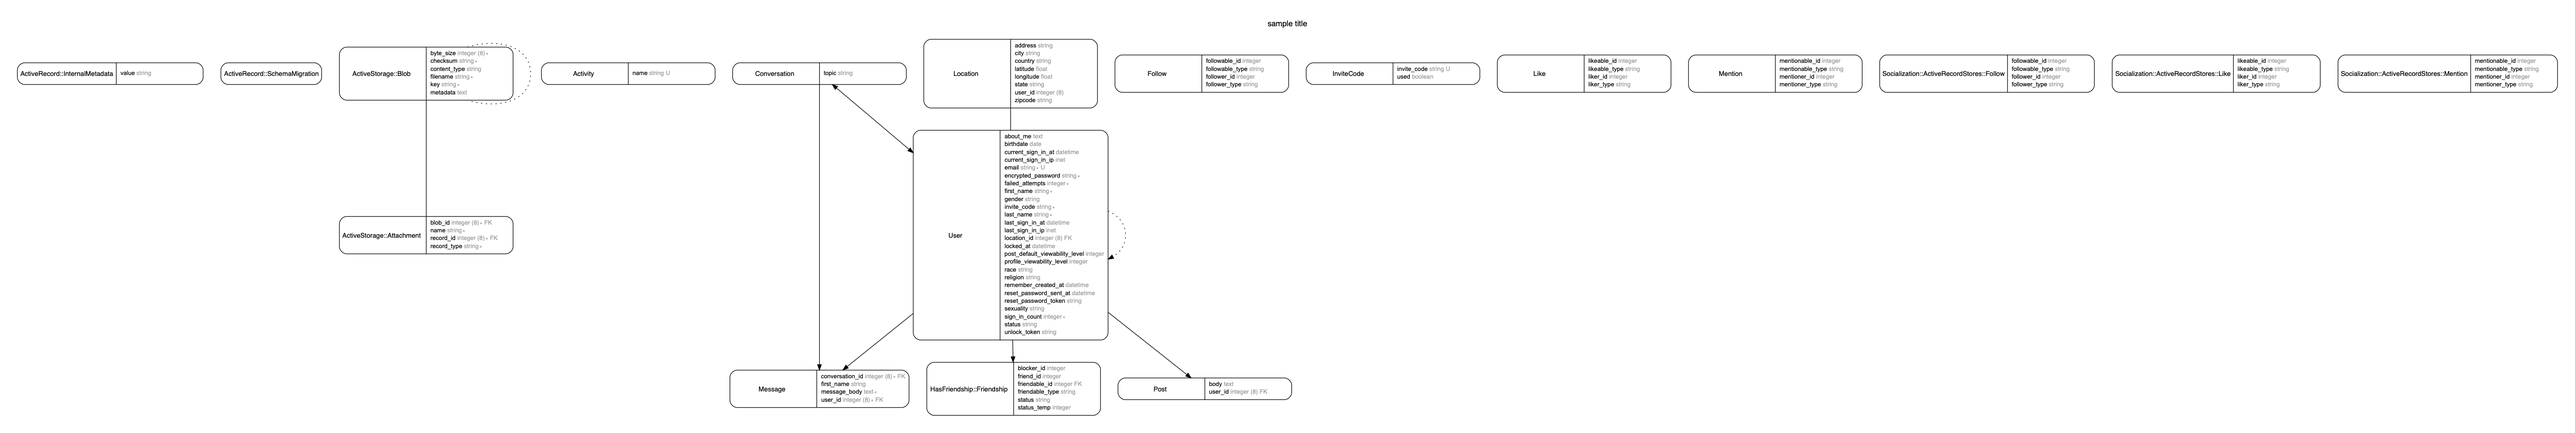
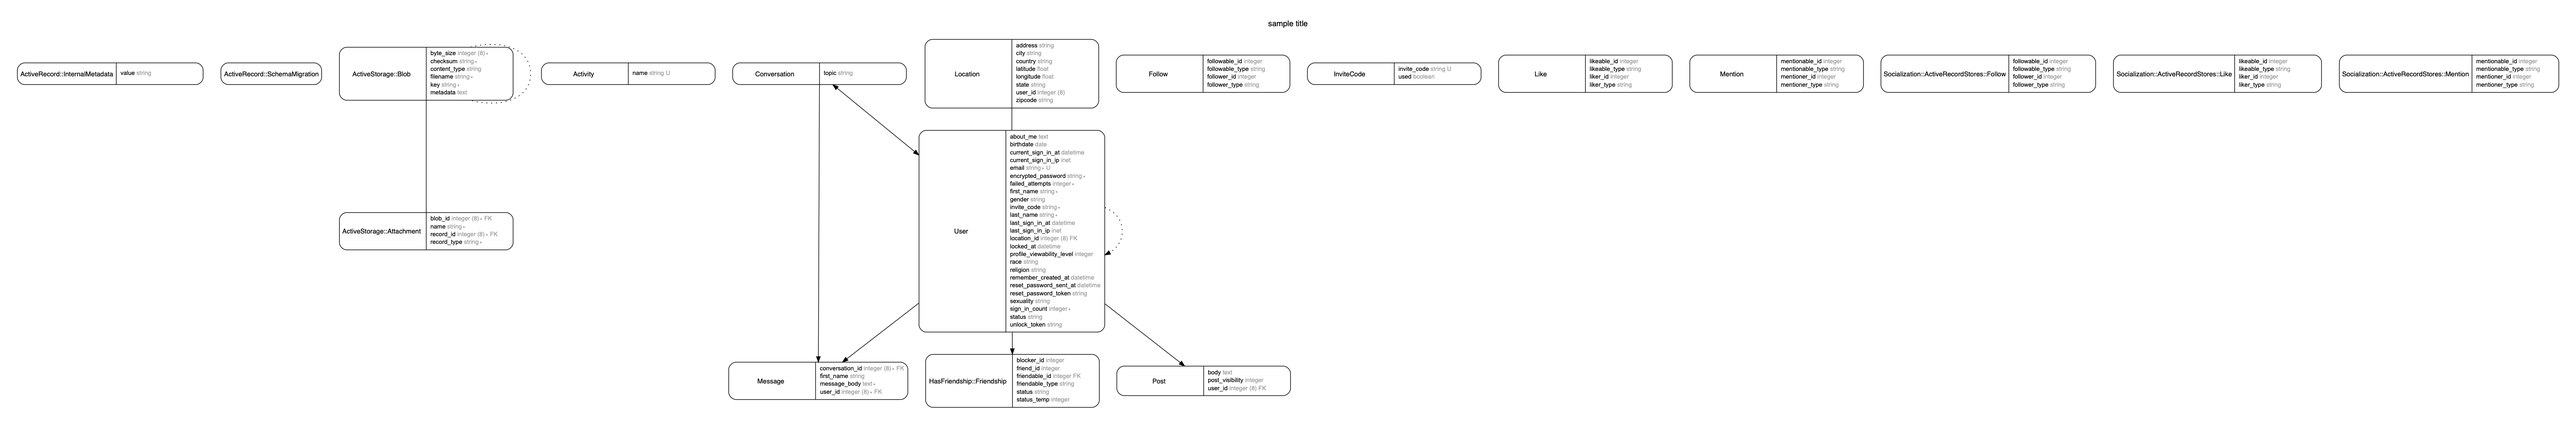
added infinite scrolling to user profiles.

diff --git a/app/javascript/components/Profile.js b/app/javascript/components/Profile.js
@@ -1,0 +1,110 @@
+import React from "react"
+import PropTypes from "prop-types"
+import axios from "axios"
+import Post from './Post'
+
+class Profile extends React.Component {
+  _isMounted = false;
+  page = 1;
+
+  constructor(props)
+  {
+    super(props)
+
+    this.loadData = this.loadData.bind(this);
+    this.trackScrolling = this.trackScrolling.bind(this);
+
+    this.state =
+    {
+      posts: []
+    };
+  }
+
+  componentDidMount()
+  {
+    this._isMounted = true;
+    document.addEventListener('scroll', this.trackScrolling);
+    this.loadData();
+  }
+
+  componentWillUnmount()
+  {
+    this._isMounted = false;
+    document.removeEventListener('scroll', this.trackScrolling);
+  }
+
+  trackScrolling()
+  {
+    if ((window.innerHeight + window.scrollY) >= document.body.offsetHeight) {
+      this.loadNextPage();
+    }
+  }
+
+  loadNextPage()
+  {
+    this.page++;
+
+    axios({
+      method: 'GET', 
+      url: '/posts/get_recent_posts',
+      params: { user_id: this.props.user_id, page: this.page },
+      headers: {
+        'X-CSRF-Token': document.querySelector("meta[name=csrf-token]").content
+      }
+    })
+    .then((response) => {
+      if (this._isMounted) {
+        this.setState({ posts: [...this.state.posts, ...response.data.posts ] });
+      }
+    });
+
+  }
+
+  loadData()
+  {
+    axios({
+      method: 'GET', 
+      url: '/posts/get_recent_posts',
+      params: { user_id: this.props.user_id, page: this.page },
+      headers: {
+        'X-CSRF-Token': document.querySelector("meta[name=csrf-token]").content
+      }
+    })
+    .then((response) => {
+      if (this._isMounted) {
+        this.setState({
+          posts: response.data.posts
+        });
+      }
+    });
+  }
+  
+  render ()
+  {
+    if (this.state.posts != null)
+    {
+      var posts = this.state.posts.map((post, index) => {
+        var date = new Date(post.created_at);
+        var date = "Posted: " + Number(date.getMonth() + 1) + "/" + date.getDate() + "/" + date.getFullYear()
+
+        return (
+          <li key={index} className="list-group-item">
+            <Post created_at={date} post_body={post.body} />
+          </li>
+        );
+      });
+    }
+
+    return (
+      <React.Fragment>
+
+      <ul id="profile_posts_list" className="list-group list-group-flush">
+        { posts }        
+      </ul>
+
+      </React.Fragment>
+    );
+  }
+}
+
+export default Profile

diff --git a/app/javascript/components/Post.js b/app/javascript/components/Post.js
@@ -1,0 +1,19 @@
+import React from "react"
+import PropTypes from "prop-types"
+
+class Post extends React.Component {
+  render () {
+    return (
+      <React.Fragment>
+        <article className="card">
+            <span className="card-body">
+              <div>{this.props.created_at}</div>
+              {this.props.post_body}
+            </span>
+        </article>
+      </React.Fragment>
+    );
+  }
+}
+
+export default Post

diff --git a/app/javascript/packs/application.js b/app/javascript/packs/application.js
@@ -42,8 +42,6 @@ require( 'datatables.net-rowreorder-bs4' )
 require( 'datatables.net-scroller-bs4' )
 require( 'datatables.net-select-bs4' )
 
-require('ws')
-
 import '../stylesheets/application'
 
 // Support component names relative to this directory:

diff --git a/db/seeds.rb b/db/seeds.rb
@@ -38,5 +38,44 @@ end
 
 invite = InviteCode.first.invite_code
 invite2 = InviteCode.last.invite_code
[4 lines of base64/hex data omitted]
+
+unless Rails.env.production?
+  @ip = Net::HTTP.get(URI.parse('http://checkip.amazonaws.com/')).squish
+end
+
+result = Geocoder.search(@ip)
+unless result.nil?
+  @location = Location.new
+  @location.latitude = result.first.latitude
+  @location.longitude = result.first.longitude
+  @location.country = result.first.country
+  @location.city = result.first.city
+  @location.state = result.first.region
+  @location.zipcode = result.first.postal
+  @location.user_id = user1.id
+  @location.save!
+  user1.location_id = @location.id
+  user1.save!
+end
+
+unless result.nil?
+  @location = Location.new
+  @location.latitude = result.first.latitude
+  @location.longitude = result.first.longitude
+  @location.country = result.first.country
+  @location.city = result.first.city
+  @location.state = result.first.region
+  @location.zipcode = result.first.postal
+  @location.user_id = user2.id
+  @location.save!
+  user2.location_id = @location.id
+  user2.save!
+end
+
+
+random_posts = (0...1000).map { { user: User.first, body: SecureRandom.hex(7), post_visibility: 0 } }
+random_posts.each do |post|
+Post.find_or_create_by!(post)
+end

diff --git a/app/controllers/posts_controller.rb b/app/controllers/posts_controller.rb
@@ -1,0 +1,54 @@
+# frozen_string_literal: true
+
+class PostsController < ApplicationController
+  def create
+    @post = Post.new(sanitized_create_params)
+
+    @post.user_id = current_user.id
+
+    if @post.save
+      render json: { status: 'ok' }
+    else
+      render json: { status: 'fail' }
+    end
+  end
+
+  def get_recent_posts
+    @user = User.find params[:user_id]
+    @posts = @user.posts.paginate(page: params[:page], per_page: 10).order("created_at DESC")
+
+    if @user != current_user
+        if @user.profile_viewability_level == User.viewability_levels[:friends_only]
+          unless @user.friends.include? current_user
+            redirect_to root_path, notice: 'You are not friends with this user, or their profile is set to private.'
+          end
+        elsif @user.profile_viewability_level == User.viewability_levels[:only_me]
+          redirect_to root_path, notice: 'You are not friends with this user, or their profile is set to private.'
+        end
+    end
+
+    @posts_to_hide = []
+
+    @posts.each do |post|
+      if post.post_visibility == User.viewability_levels[:only_me]
+        if @user != current_user
+          @posts_to_hide.push(post)
+        end
+      end
+
+      if post.post_visibility == User.viewability_levels[:friends_only]
+        if !@user.friends.include? current_user
+          @posts_to_hide.push(post)
+        end
+      end
+    end
+
+    @posts -= @posts_to_hide
+
+    render json: { posts: @posts }
+  end
+
+  def sanitized_create_params
+    params.require(:post).permit(:body, :post_visibility)
+  end
+end

diff --git a/db/schema.rb b/db/schema.rb
@@ -10,7 +10,7 @@
 #
 # It's strongly recommended that you check this file into your version control system.
 
-ActiveRecord::Schema.define(version: 2019_09_01_164117) do
+ActiveRecord::Schema.define(version: 2019_09_01_173621) do
 
   # These are extensions that must be enabled in order to support this database
   enable_extension "plpgsql"
@@ -133,6 +133,7 @@ ActiveRecord::Schema.define(version: 2019_09_01_164117) do
     t.text "body"
     t.datetime "created_at", null: false
     t.datetime "updated_at", null: false
+    t.integer "post_visibility"
     t.index ["user_id"], name: "index_posts_on_user_id"
   end
 
@@ -164,7 +165,6 @@ ActiveRecord::Schema.define(version: 2019_09_01_164117) do
     t.string "invite_code"
     t.string "status"
     t.integer "profile_viewability_level", default: 0
-    t.integer "post_default_viewability_level", default: 0
     t.index ["email"], name: "index_users_on_email", unique: true
     t.index ["location_id"], name: "index_users_on_location_id"
     t.index ["reset_password_token"], name: "index_users_on_reset_password_token", unique: true

diff --git a/app/models/user.rb b/app/models/user.rb
@@ -1,6 +1,8 @@
 # frozen_string_literal: true
 
 class User < ApplicationRecord
+  include FafEnums
+
   devise :database_authenticatable, :registerable, :rememberable, :trackable, :timeoutable, :validatable, :lockable
 
   validates :invite_code, presence: true
@@ -64,13 +66,6 @@ class User < ApplicationRecord
     black_or_african_american: 'Black or African American',
     asian: 'Asian',
     native_hawaiian_or_other_pacific_islander: 'Native Hawaiian or Other Pacific Islander'
-  }
-
-  enum viewability_level:
-  {
-    everyone: 0,
-    only_me: 1,
-    friends_only: 2
   }
 
   validate :validate_age

diff --git a/app/controllers/users_controller.rb b/app/controllers/users_controller.rb
@@ -3,7 +3,8 @@
 class UsersController < ApplicationController
   def show
     @user = User.find params[:id]
-
+    @post = Post.new
+    
     if @user != current_user
 
       if @user.profile_viewability_level == User.viewability_levels[:friends_only]
@@ -13,7 +14,7 @@ class UsersController < ApplicationController
       elsif @user.profile_viewability_level == User.viewability_levels[:only_me]
         redirect_to root_path, notice: 'You are not friends with this user, or their profile is set to private.'
       end
-
     end
   end
+
 end

diff --git a/config/routes.rb b/config/routes.rb
@@ -11,6 +11,12 @@ Rails.application.routes.draw do
   end
 
   resources :messages
+  
+  resources :posts do
+    collection do
+      get 'get_recent_posts'
+    end
+  end
 
   resources :users, only: [:show]
   devise_for :users, path_prefix: 'd', controllers:

diff --git a/app/models/concerns/faf_enums.rb b/app/models/concerns/faf_enums.rb
@@ -1,0 +1,14 @@
+# frozen_string_literal: true
+
+module FafEnums
+  extend ActiveSupport::Concern
+
+  included do
+    enum viewability_levels:
+    {
+      everyone: 0,
+      only_me: 1,
+      friends_only: 2
+    }
+  end
+end

diff --git a/app/models/post.rb b/app/models/post.rb
@@ -1,2 +1,13 @@
+# frozen_string_literal: true
+
 class Post < ApplicationRecord
+  include FafEnums
+
+  belongs_to :user
+  
+  validates :body, presence: true
+
+    def created_at_js
+        created_at.strftime()
+    end
 end

diff --git a/db/migrate/20190901173621_remove_post_default_viewability_from_user.rb b/db/migrate/20190901173621_remove_post_default_viewability_from_user.rb
@@ -1,0 +1,5 @@
+class RemovePostDefaultViewabilityFromUser < ActiveRecord::Migration[5.2]
+  def change
+    remove_column :users, :post_default_viewability_level
+  end
+end
